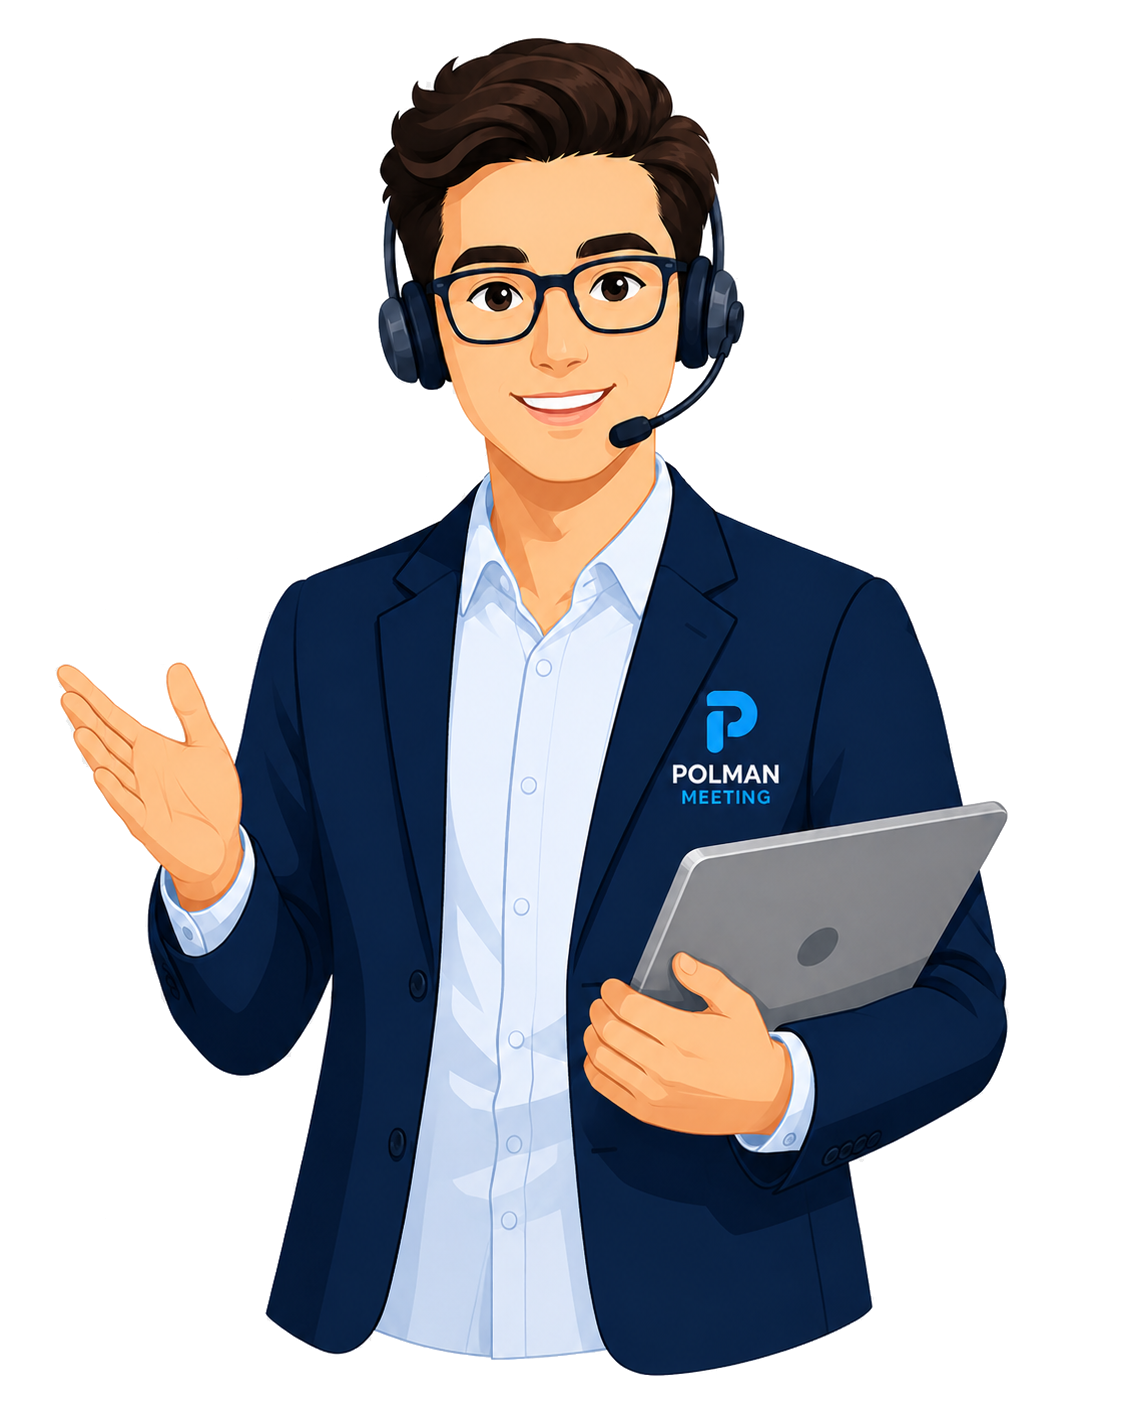
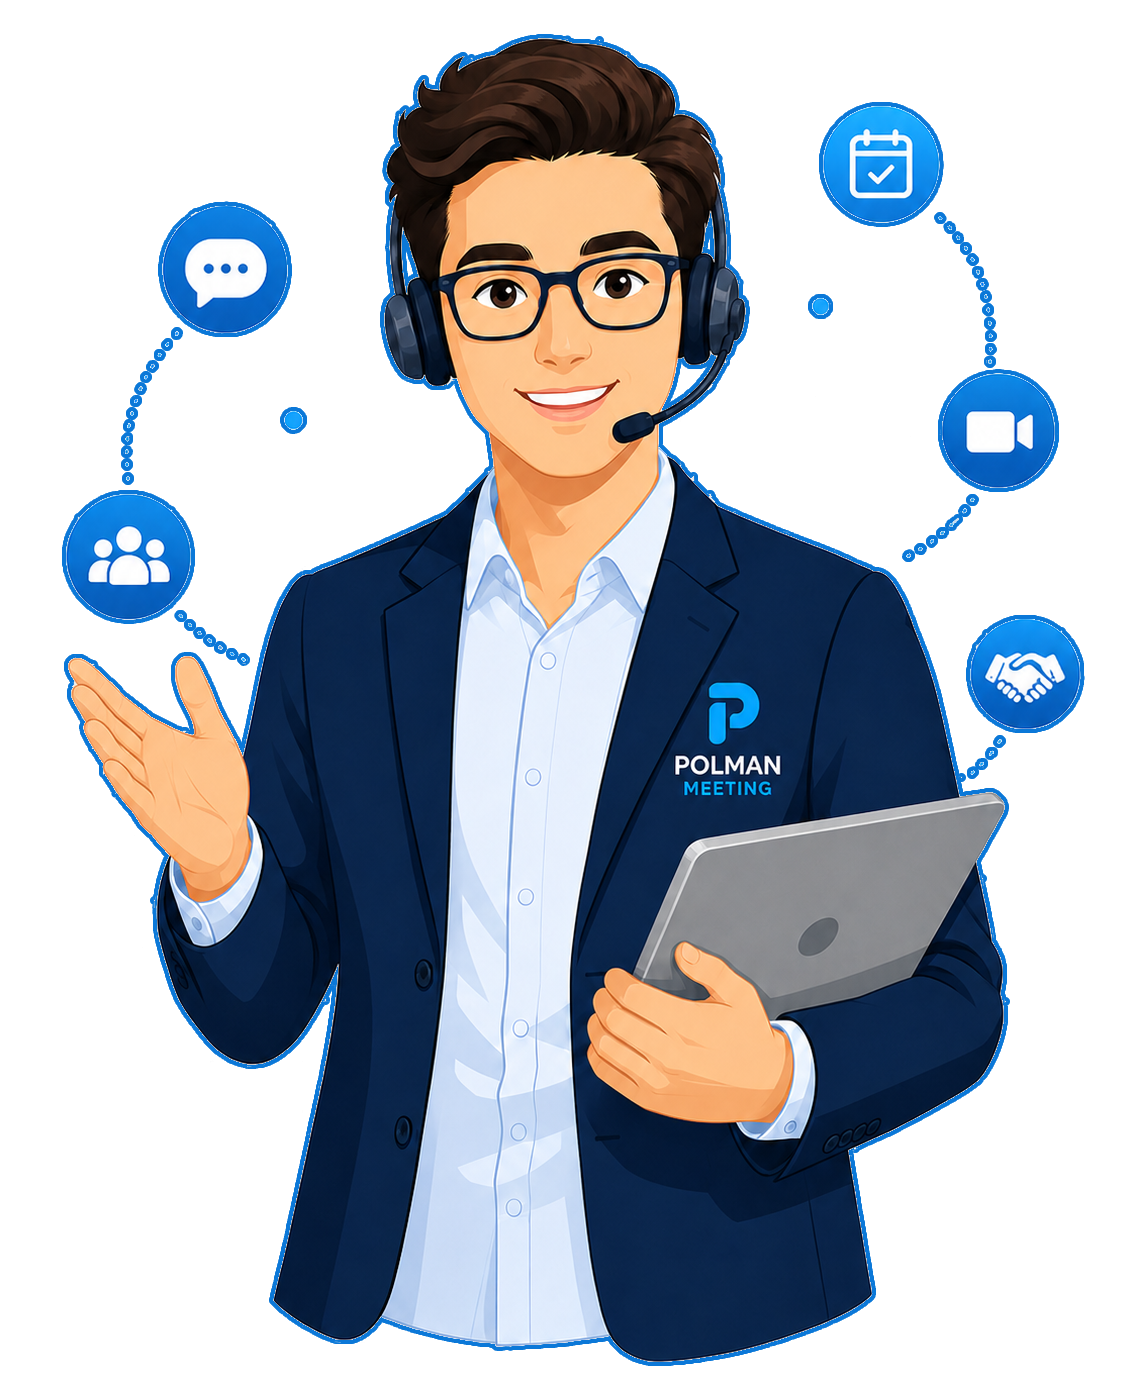
update

diff --git a/app/globals.css b/app/globals.css
@@ -5365,3 +5365,165 @@ body {
     opacity: 0.44 !important;
   }
 }
+
+/* =========================
+   HOME HERO AVATAR TRANSPARENT FINAL
+   Pakai avatar transparan agar background putih avatar hilang.
+========================= */
+
+.homeHeroPanel {
+  position: relative !important;
+  overflow: hidden !important;
+  background:
+    radial-gradient(circle at 76% 30%, rgba(147, 197, 253, 0.26) 0%, rgba(147, 197, 253, 0.08) 22%, transparent 42%),
+    linear-gradient(90deg, #1e3a8a 0%, #2563eb 50%, #7dd3fc 100%) !important;
+  background-color: #2563eb !important;
+}
+
+.homeHeroPanel::after {
+  content: "" !important;
+  position: absolute !important;
+  right: 18px !important;
+  bottom: 0 !important;
+  width: min(24vw, 260px) !important;
+  height: 94% !important;
+  background-image: url("/images/hero-absensi-meeting-avatar.png") !important;
+  background-repeat: no-repeat !important;
+  background-position: center bottom !important;
+  background-size: contain !important;
+  pointer-events: none !important;
+  z-index: 0 !important;
+  opacity: 0.96 !important;
+}
+
+.homeHeroPanel .heroContent {
+  position: relative !important;
+  z-index: 1 !important;
+}
+
+.homeHeroPanel .heroContent > div:first-child {
+  max-width: min(64%, 700px) !important;
+}
+
+.homeHeroPanel .heroMetric {
+  position: relative !important;
+  z-index: 1 !important;
+  backdrop-filter: blur(10px) !important;
+}
+
+@media (max-width: 960px) {
+  .homeHeroPanel::after {
+    right: 10px !important;
+    width: min(26vw, 220px) !important;
+    height: 90% !important;
+  }
+
+  .homeHeroPanel .heroContent > div:first-child {
+    max-width: 66% !important;
+  }
+}
+
+@media (max-width: 720px) {
+  .homeHeroPanel {
+    background:
+      radial-gradient(circle at 78% 32%, rgba(147, 197, 253, 0.20) 0%, rgba(147, 197, 253, 0.08) 24%, transparent 42%),
+      linear-gradient(135deg, #1e3a8a 0%, #2563eb 60%, #38bdf8 100%) !important;
+    background-color: #2563eb !important;
+  }
+
+  .homeHeroPanel::after {
+    right: 6px !important;
+    width: min(34vw, 170px) !important;
+    height: 86% !important;
+    background-position: center bottom !important;
+    background-size: contain !important;
+    opacity: 0.34 !important;
+  }
+
+  .homeHeroPanel .heroContent > div:first-child {
+    max-width: 100% !important;
+  }
+
+  .homeHeroPanel .heroMetric {
+    background: rgba(147, 197, 253, 0.22) !important;
+    border-color: rgba(255,255,255,0.28) !important;
+  }
+}
+
+@media (max-width: 520px) {
+  .homeHeroPanel {
+    background:
+      radial-gradient(circle at 82% 30%, rgba(147, 197, 253, 0.18) 0%, rgba(147, 197, 253, 0.06) 24%, transparent 44%),
+      linear-gradient(135deg, #1e3a8a 0%, #2563eb 62%, #38bdf8 100%) !important;
+  }
+
+  .homeHeroPanel::after {
+    right: 4px !important;
+    width: 38% !important;
+    height: 82% !important;
+    opacity: 0.28 !important;
+  }
+}
+
+/* =========================
+   HOME HERO METRIC BLUE OVERLAY FINAL
+   Overlay biru yang menyatu dan lebih terlihat.
+========================= */
+
+.homeHeroPanel .heroMetric {
+  position: relative !important;
+  z-index: 2 !important;
+  min-width: 148px !important;
+  border: 1px solid rgba(191, 219, 254, 0.62) !important;
+  background:
+    linear-gradient(135deg, rgba(59, 130, 246, 0.42) 0%, rgba(96, 165, 250, 0.36) 50%, rgba(125, 211, 252, 0.28) 100%) !important;
+  box-shadow:
+    inset 0 1px 0 rgba(255, 255, 255, 0.28),
+    0 16px 40px rgba(30, 64, 175, 0.20) !important;
+  backdrop-filter: blur(12px) !important;
+  -webkit-backdrop-filter: blur(12px) !important;
+}
+
+.homeHeroPanel .heroMetric strong,
+.homeHeroPanel .heroMetric span {
+  position: relative !important;
+  z-index: 1 !important;
+  color: #ffffff !important;
+  text-shadow: 0 1px 1px rgba(30, 41, 59, 0.18) !important;
+}
+
+.homeHeroPanel .heroMetric span {
+  color: rgba(239, 246, 255, 0.96) !important;
+  font-weight: 600 !important;
+}
+
+.homeHeroPanel .heroMetric::before {
+  content: "" !important;
+  position: absolute !important;
+  inset: 0 !important;
+  border-radius: inherit !important;
+  background:
+    linear-gradient(180deg, rgba(255,255,255,0.12) 0%, rgba(255,255,255,0.04) 36%, rgba(255,255,255,0.00) 100%);
+  pointer-events: none !important;
+}
+
+@media (max-width: 720px) {
+  .homeHeroPanel .heroMetric {
+    width: 100% !important;
+    min-width: 0 !important;
+    background:
+      linear-gradient(135deg, rgba(59, 130, 246, 0.46) 0%, rgba(96, 165, 250, 0.40) 55%, rgba(125, 211, 252, 0.30) 100%) !important;
+    border-color: rgba(191, 219, 254, 0.70) !important;
+    box-shadow:
+      inset 0 1px 0 rgba(255,255,255,0.24),
+      0 12px 30px rgba(30, 64, 175, 0.18) !important;
+  }
+
+  .homeHeroPanel .heroMetric strong {
+    font-size: 34px !important;
+  }
+
+  .homeHeroPanel .heroMetric span {
+    font-size: 15px !important;
+  }
+}